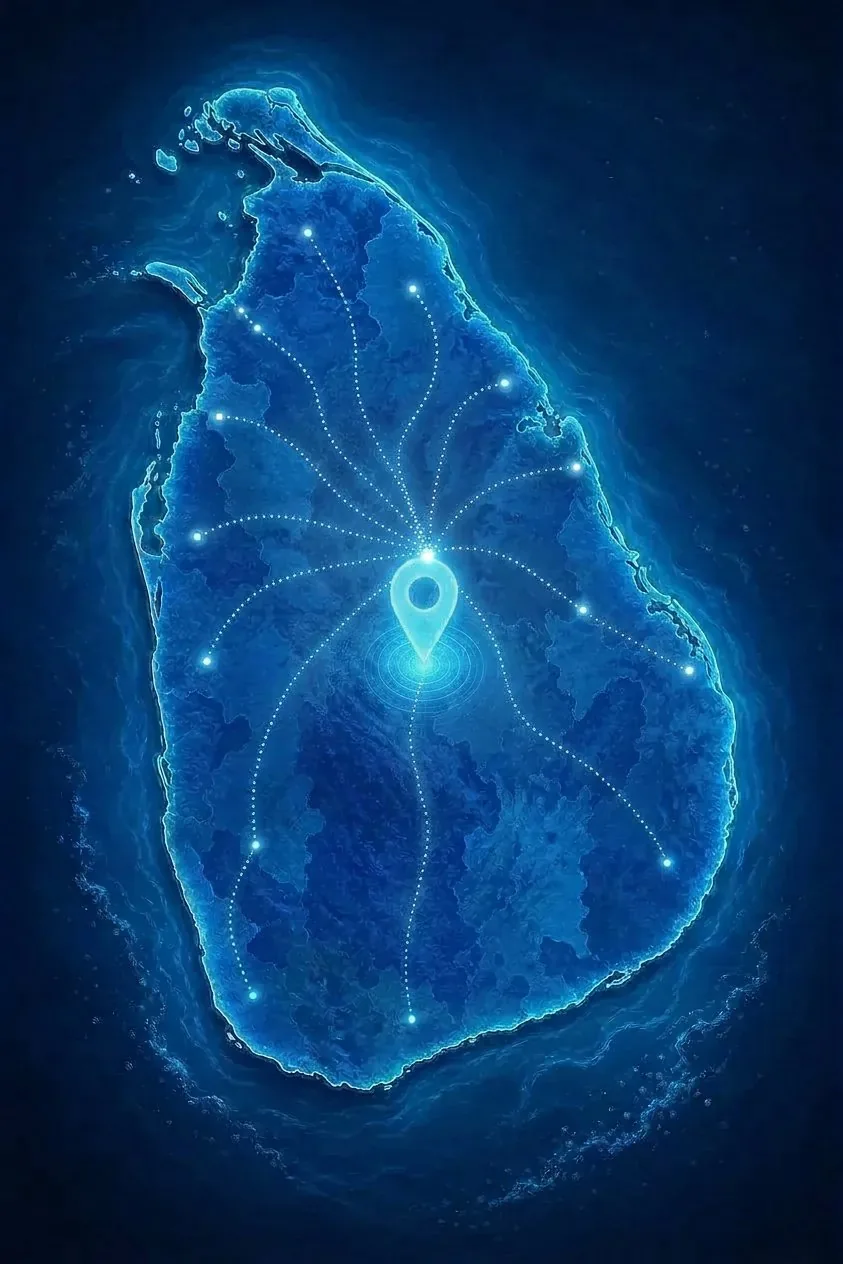
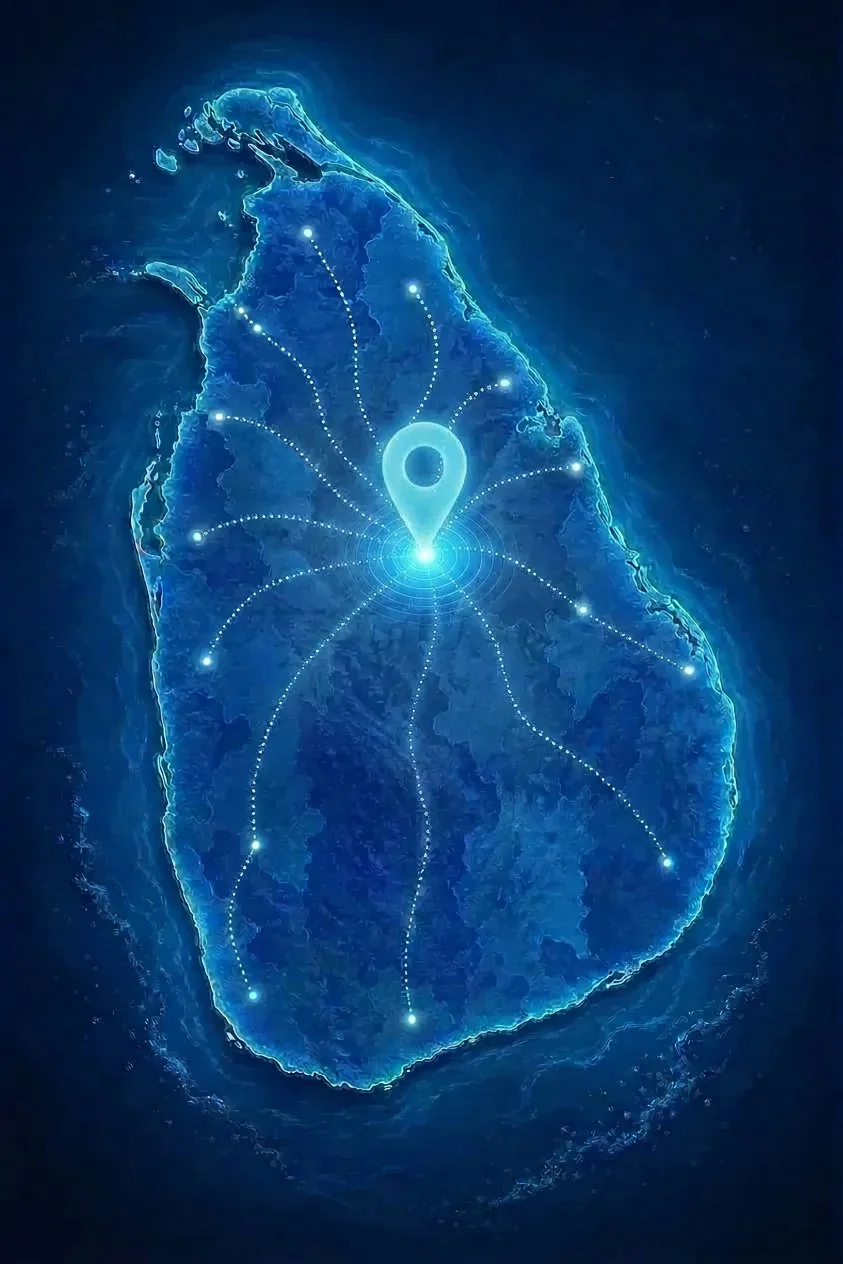
Add island-wide coverage section; routes start at Galewela marker
- New 'Coverage' section (between Services and FAQ): 'We Cover the Whole
  Island — and Beyond...' with service-area artwork and three highlight
  cards (island-wide service, central-location fast response, and
  international projects); added Coverage links to header and footer nav
- Regenerate coverage artwork so every dotted route line starts at the
  exact tip of the location pin — the Galewela city point where the
  ripple rings are centred (was: convergence hub above the marker)
- Image re-encoded to webp (81 KB), same 843x1264 dimensions

diff --git a/css/modern-styles.css b/css/modern-styles.css
@@ -377,7 +377,8 @@ nav a:hover, nav a.active {
 
 /* ---------- Cards (general glassy water) ---------- */
 .card, .expertise-card, .service-card, .product-showcase-card, .product-card,
-.contact-detail, .stat-card, .feature-highlight, .faq-item, .contact-form, .products-cta, .map-info {
+.contact-detail, .stat-card, .feature-highlight, .faq-item, .contact-form, .products-cta, .map-info,
+.coverage-point, .coverage-map-card {
     background: linear-gradient(160deg, rgba(255,255,255,0.10) 0%, rgba(0,80,140,0.25) 100%);
     border: 1px solid rgba(191,241,255,0.22);
     border-radius: 22px;
@@ -393,7 +394,8 @@ nav a:hover, nav a.active {
 .card::before, .expertise-card::before, .service-card::before,
 .product-showcase-card::before, .product-card::before,
 .contact-detail::before, .stat-card::before, .feature-highlight::before,
-.contact-form::before, .products-cta::before, .map-info::before {
+.contact-form::before, .products-cta::before, .map-info::before,
+.coverage-point::before, .coverage-map-card::before {
     content:''; position:absolute; top:0; left:10%; right:10%; height:1px;
     background: linear-gradient(90deg, transparent, rgba(255,255,255,0.55), transparent);
     z-index:2; pointer-events:none;
@@ -401,7 +403,7 @@ nav a:hover, nav a.active {
 
 .card:hover, .expertise-card:hover, .service-card:hover,
 .product-showcase-card:hover, .product-card:hover,
-.contact-detail:hover, .stat-card:hover, .feature-highlight:hover {
+.contact-detail:hover, .stat-card:hover, .feature-highlight:hover, .coverage-point:hover {
     transform: translateY(-6px);
     border-color: rgba(191,241,255,0.6);
     box-shadow: 0 20px 55px rgba(0,80,150,0.55), 0 0 30px rgba(63,198,255,0.35),
@@ -662,6 +664,30 @@ textarea.form-control { min-height:120px; resize:vertical; }
 .map-actions { display:flex; gap:.8rem; flex-wrap:wrap; }
 .map-actions .btn { flex:1 1 auto; justify-content:center; }
 
+/* ---------- Island-Wide Coverage ---------- */
+.coverage-container {
+    display: grid;
+    grid-template-columns: 1.1fr .9fr;
+    gap: 2.5rem;
+    margin-top: 3rem;
+    align-items: center;
+}
+.coverage-points { display:flex; flex-direction:column; gap:1.2rem; }
+.coverage-point { padding: 1.4rem 1.6rem; }
+.coverage-point h3 { color:#fff; font-size:1.15rem; margin:0 0 .35rem; }
+.coverage-point h3:last-child { margin-bottom:0; }
+.coverage-point p { color:#dff4ff; line-height:1.65; margin:0; }
+.coverage-map-card { padding: 1rem; }
+.coverage-map-img {
+    width: 100%;
+    height: auto;
+    max-height: 540px;
+    object-fit: cover;
+    object-position: center 40%;
+    border-radius: 16px;
+    display: block;
+}
+
 /* ---------- FAQ ---------- */
 .faq-grid { max-width:820px; margin:0 auto; display:flex; flex-direction:column; gap:.8rem; }
 .faq-item { padding: 0; }
@@ -796,6 +822,7 @@ textarea.form-control { min-height:120px; resize:vertical; }
     .contact-container { grid-template-columns:1fr; gap:2rem; }
     .map-section { grid-template-columns:1fr; }
     .map-frame { min-height:380px; }
+    .coverage-container { grid-template-columns:1fr; gap:2rem; }
     .expertise-grid { grid-template-columns:1fr; }
 }
 @media (max-width: 768px) {

diff --git a/index.html b/index.html
@@ -232,6 +232,7 @@
                         <li><a href="#about">About</a></li>
                         <li><a href="#products">Products</a></li>
                         <li><a href="#services">Services</a></li>
+                        <li><a href="#coverage">Coverage</a></li>
                         <li><a href="#faq">FAQ</a></li>
                         <li><a href="#contact">Contact</a></li>
                     </ul>
@@ -596,6 +597,40 @@
         </div>
     </section>
 
+    <!-- Island-Wide Coverage Section -->
+    <section class="section coverage" id="coverage">
+        <div class="container">
+            <h2 class="section-title">We Cover the Whole Island — <span class="gradient-text">and Beyond</span>...</h2>
+            <p class="section-subtitle">
+                From our home in Galewela, our engineers, service fleet and 24/7 support teams reach every
+                corner of Sri Lanka — and our complete water treatment systems serve international clients too.
+            </p>
+
+            <div class="coverage-container">
+                <div class="coverage-points">
+                    <div class="coverage-point">
+                        <h3>Island-Wide Service</h3>
+                        <p>Installation, maintenance and 24/7 technical support across all districts of Sri Lanka — from Jaffna to Matara, Colombo to Batticaloa.</p>
+                    </div>
+                    <div class="coverage-point">
+                        <h3>Central Location, Fast Response</h3>
+                        <p>Our Galewela base sits near the geographic centre of the island, keeping travel times short in every direction — help is never far away.</p>
+                    </div>
+                    <div class="coverage-point">
+                        <h3>...and Beyond</h3>
+                        <p>We design and deliver water treatment systems for international applications, meeting local and international certification standards.</p>
+                    </div>
+                </div>
+
+                <div class="coverage-map-card">
+                    <img src="assets/images/delight-water-service-area.webp"
+                        alt="Coverage map of Sri Lanka — service routes radiate island-wide from Delight Water Solutions in Galewela"
+                        class="coverage-map-img" loading="lazy" width="843" height="1264">
+                </div>
+            </div>
+        </div>
+    </section>
+
     <!-- FAQ Section (AEO-critical) -->
     <section class="section faq-section" id="faq">
         <div class="container">
@@ -805,6 +840,7 @@
                         <li><a href="#about">About</a></li>
                         <li><a href="#products">Products</a></li>
                         <li><a href="#services">Services</a></li>
+                        <li><a href="#coverage">Coverage</a></li>
                         <li><a href="#faq">FAQ</a></li>
                         <li><a href="#contact">Contact</a></li>
                     </ul>
